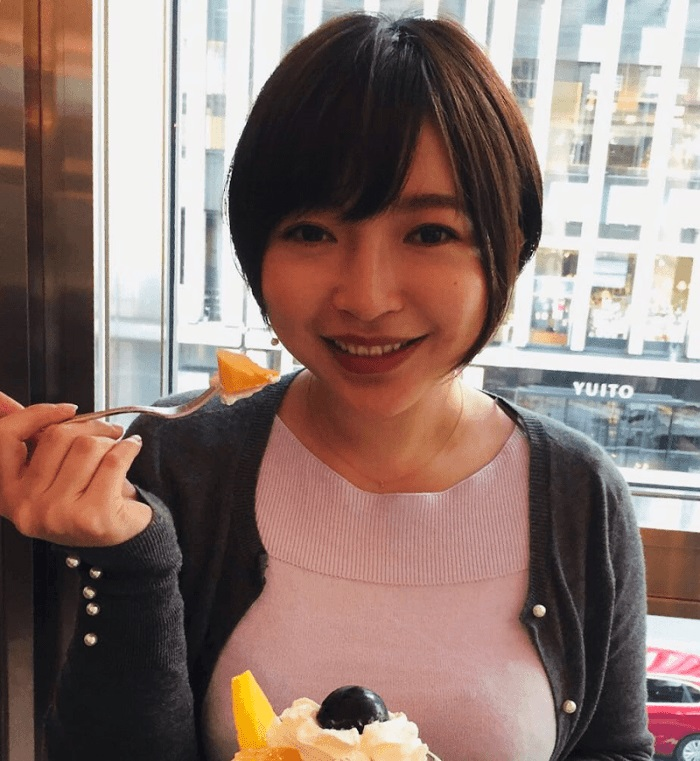
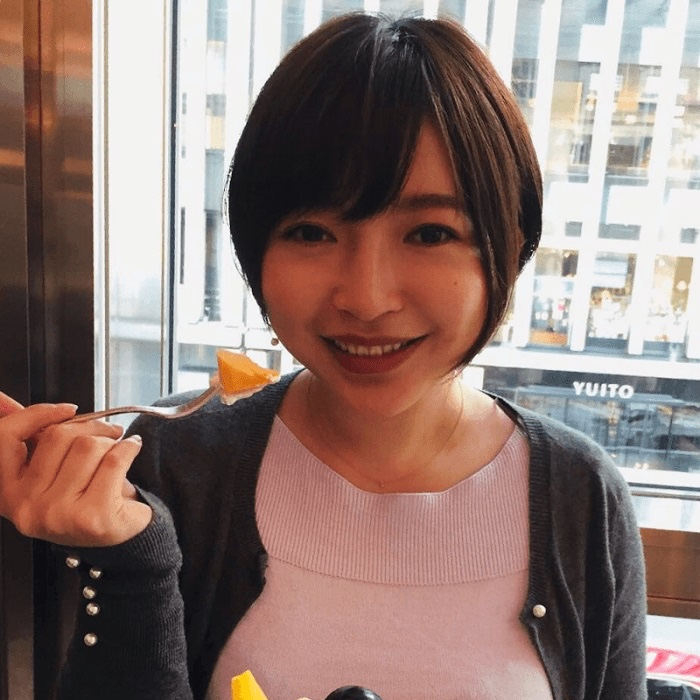
Fixed speaker style and update image (#39)
* fix speaker css style

* update

* fix speaker style and update spaker image

diff --git a/src/base/_base.html b/src/base/_base.html
@@ -45,7 +45,7 @@
 				color: #478c3d;
 			}
 			.speaker {
-				min-height: 415px;
+				min-height: 300px;
 			}
 			.speaker .name {
 				letter-spacing: .1em;
@@ -56,7 +56,7 @@
 			.support_intro {
 				min-height: 100px;
 			}
-			@media(min-width: 767px) {
+			@media(min-width: 1200px) {
 				.speaker__colWraper {
 					width: 20%;
 				}
